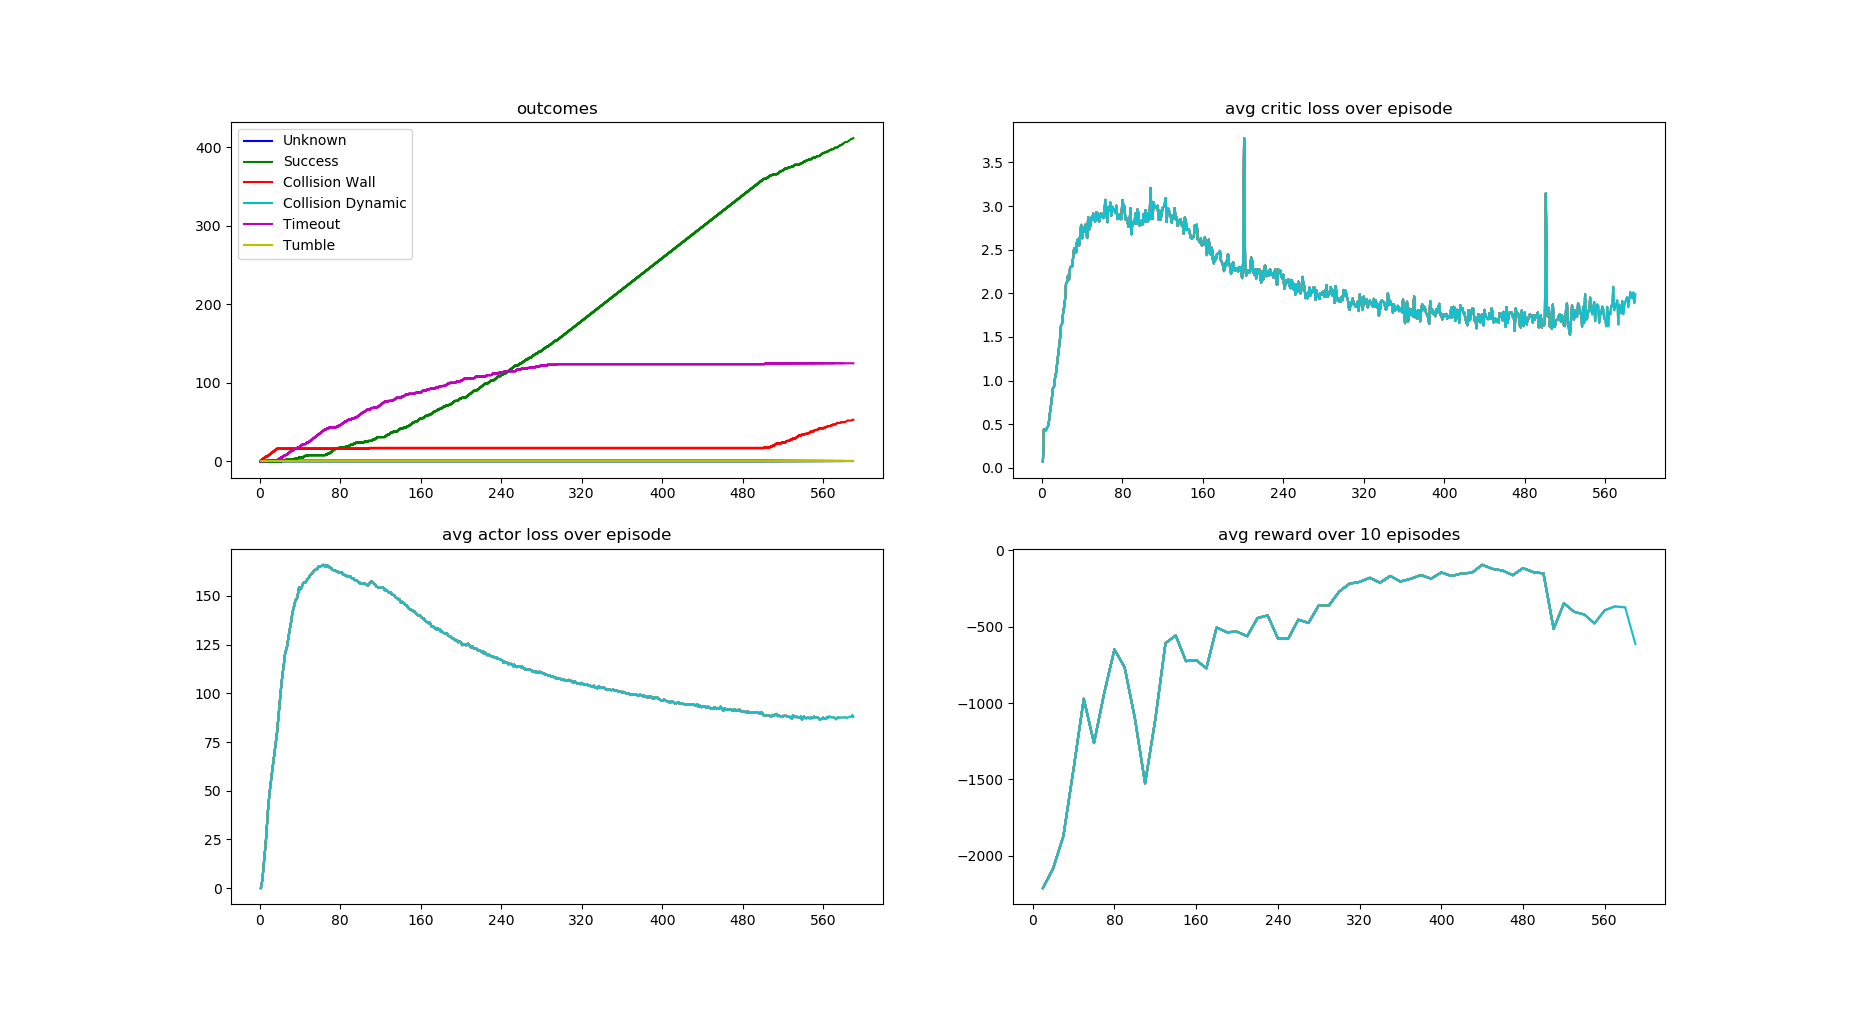
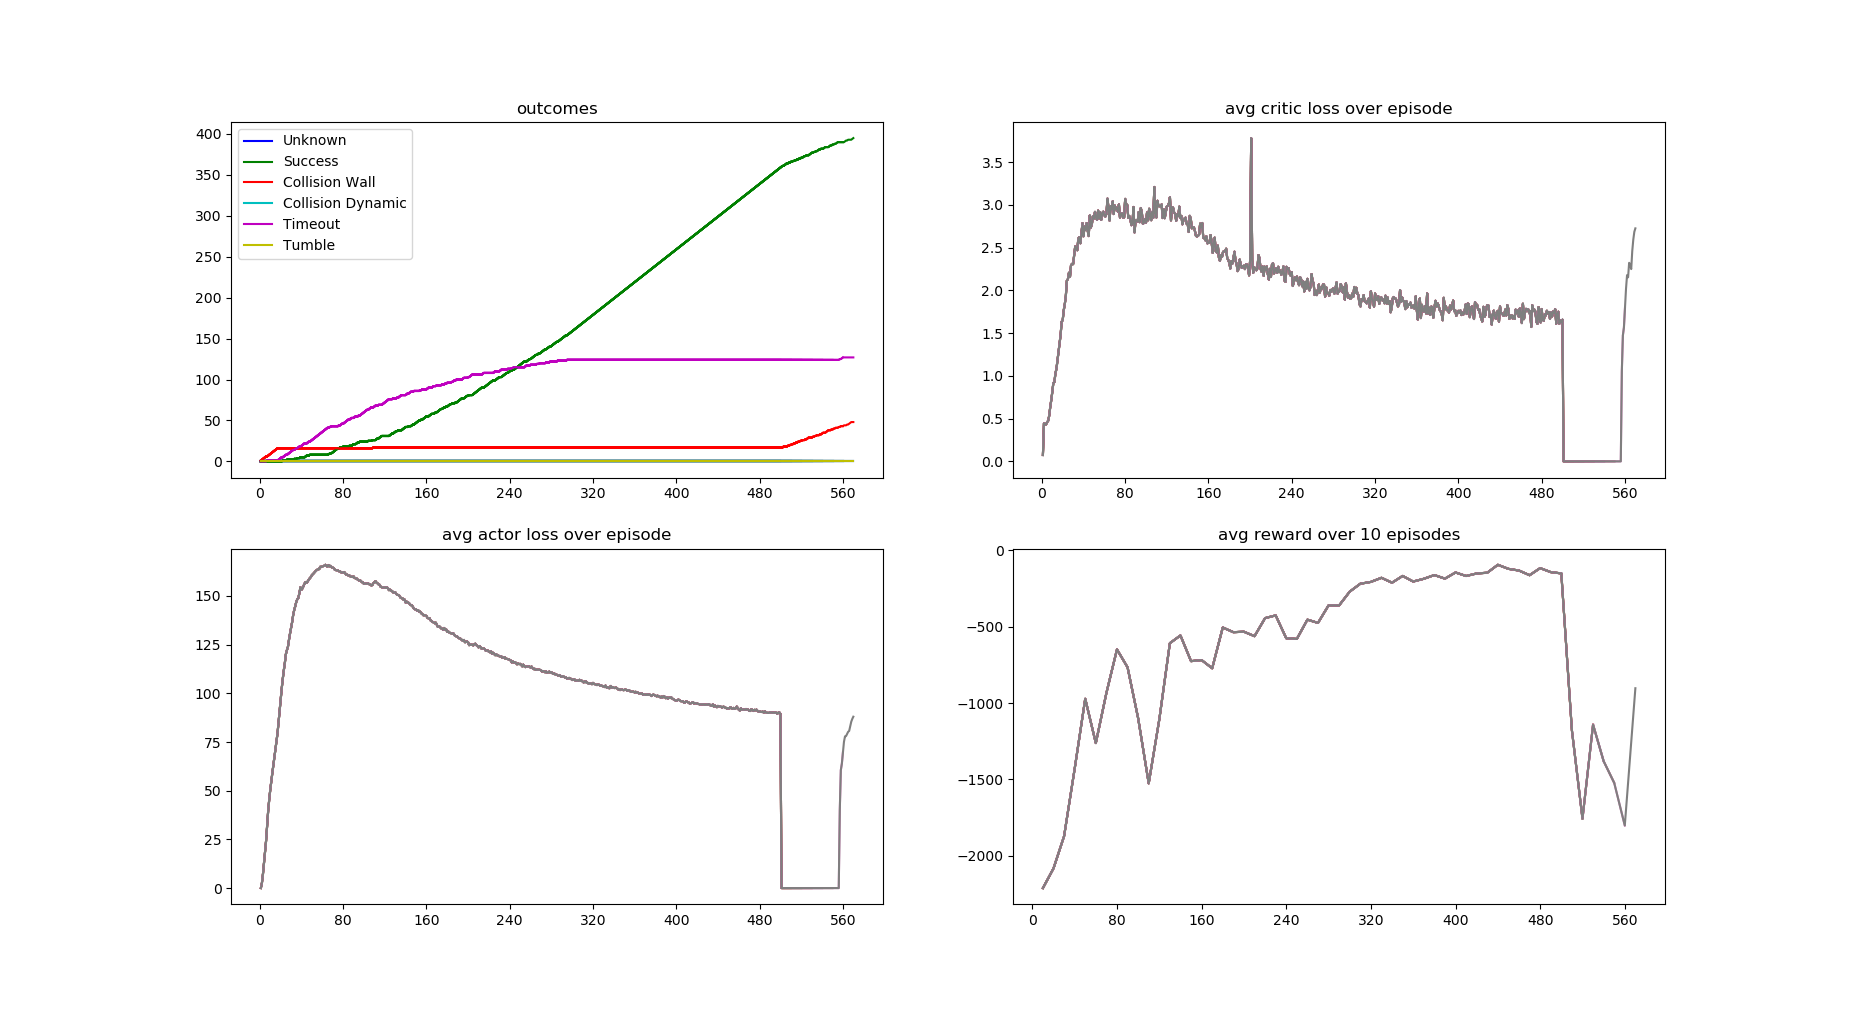
malfunction of training due to empty buffer. restarting the observe phase again.

diff --git a/src/turtlebot3_drl/turtlebot3_drl/drl_agent/drl_agent.py b/src/turtlebot3_drl/turtlebot3_drl/drl_agent/drl_agent.py
@@ -85,14 +85,25 @@ class DrlAgent(Node):
             self.model = self.sm.load_model()
             self.model.device = self.device
             self.sm.load_weights(self.model.networks)
+            buffer_loaded = False
             if self.training:
                 try:
                     self.replay_buffer.buffer = self.sm.load_replay_buffer(self.model.buffer_size, os.path.join(self.load_session, 'stage'+str(self.sm.stage)+'_latest_buffer.pkl'))
+                    buffer_loaded = True
                     print(f"Replay buffer loaded successfully ({self.replay_buffer.get_length()} experiences)")
                 except Exception as e:
                     print(f"\033[93mWarning: Could not load replay buffer: {e}\033[0m")
-                    print(f"\033[93mStarting with a fresh replay buffer (this is normal when switching stages)\033[0m")
-            self.total_steps = self.graph.set_graphdata(self.sm.load_graphdata(), self.episode)
+                    print(f"\033[93mStarting with a fresh replay buffer — agent will re-enter observe phase\033[0m")
+
+            if buffer_loaded:
+                # Buffer loaded: resume from where we left off
+                self.total_steps = self.graph.set_graphdata(self.sm.load_graphdata(), self.episode)
+            else:
+                # Buffer empty/failed: reset counters so agent collects fresh data before training
+                self.total_steps = 0
+                self.episode = 0
+                print(f"\033[93mReset episode counter and total_steps to 0 (observe phase will restart)\033[0m")
+
             print(f"global steps: {self.total_steps}")
             print(f"loaded model {self.load_session} (eps {self.episode}): {self.model.get_model_parameters()}")
         else:
